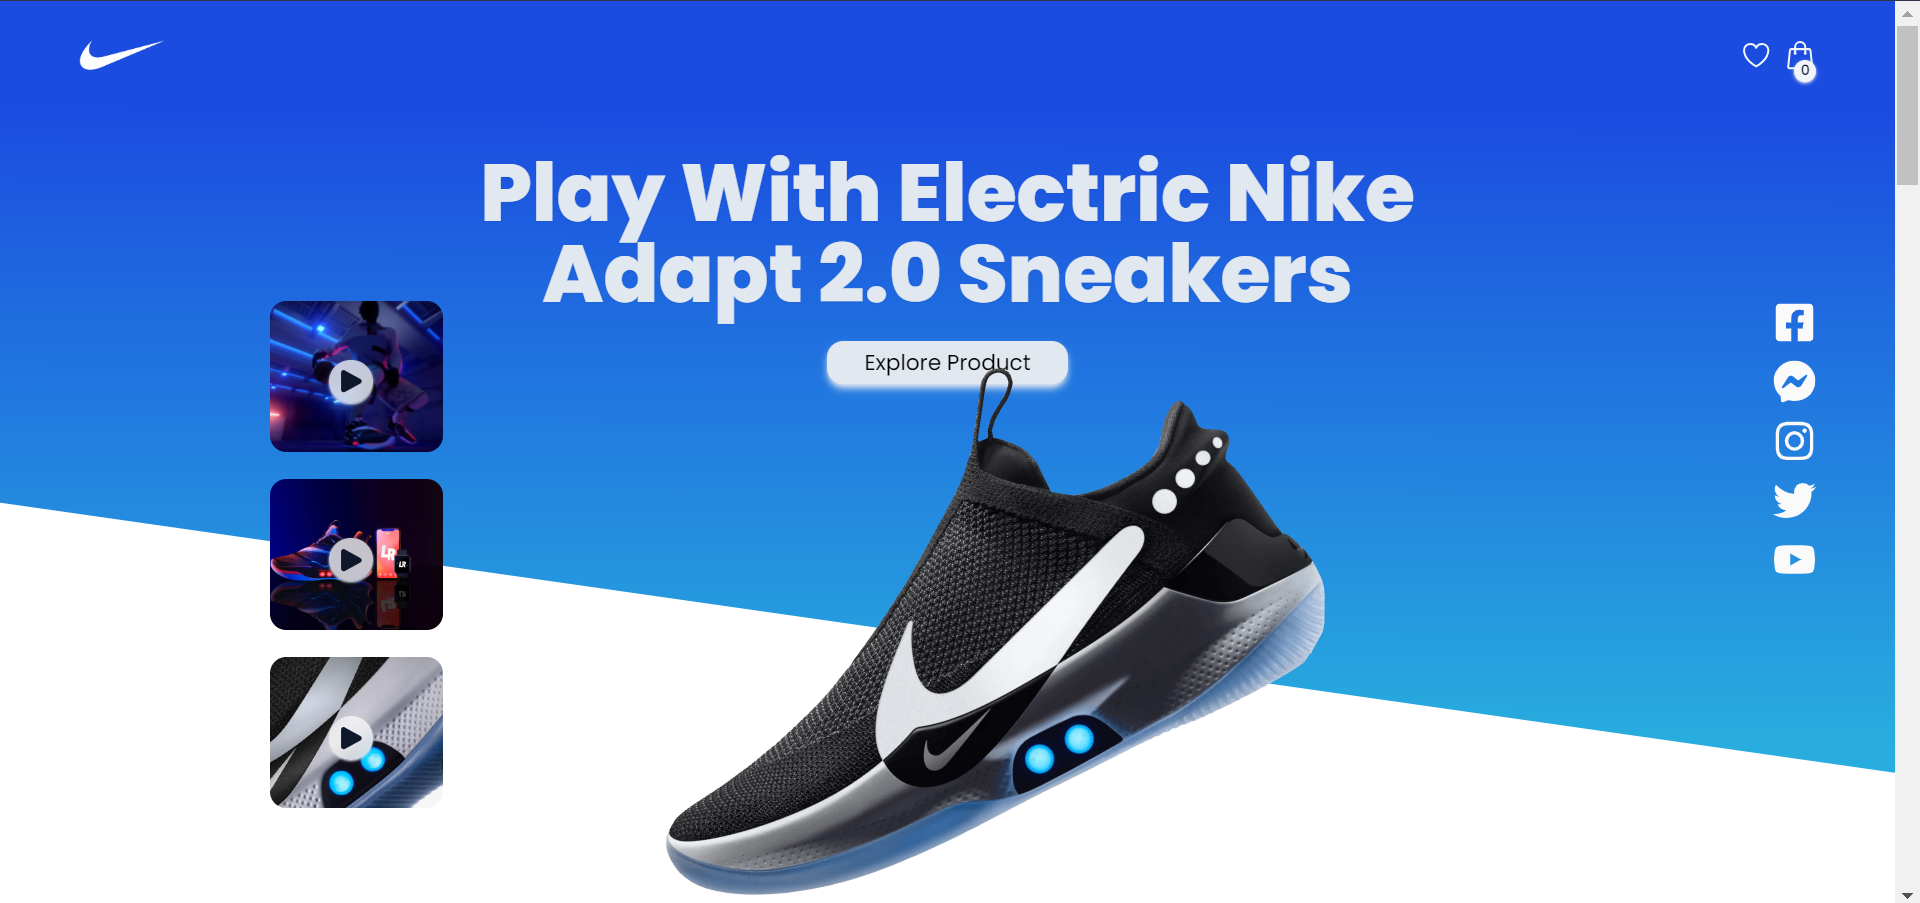
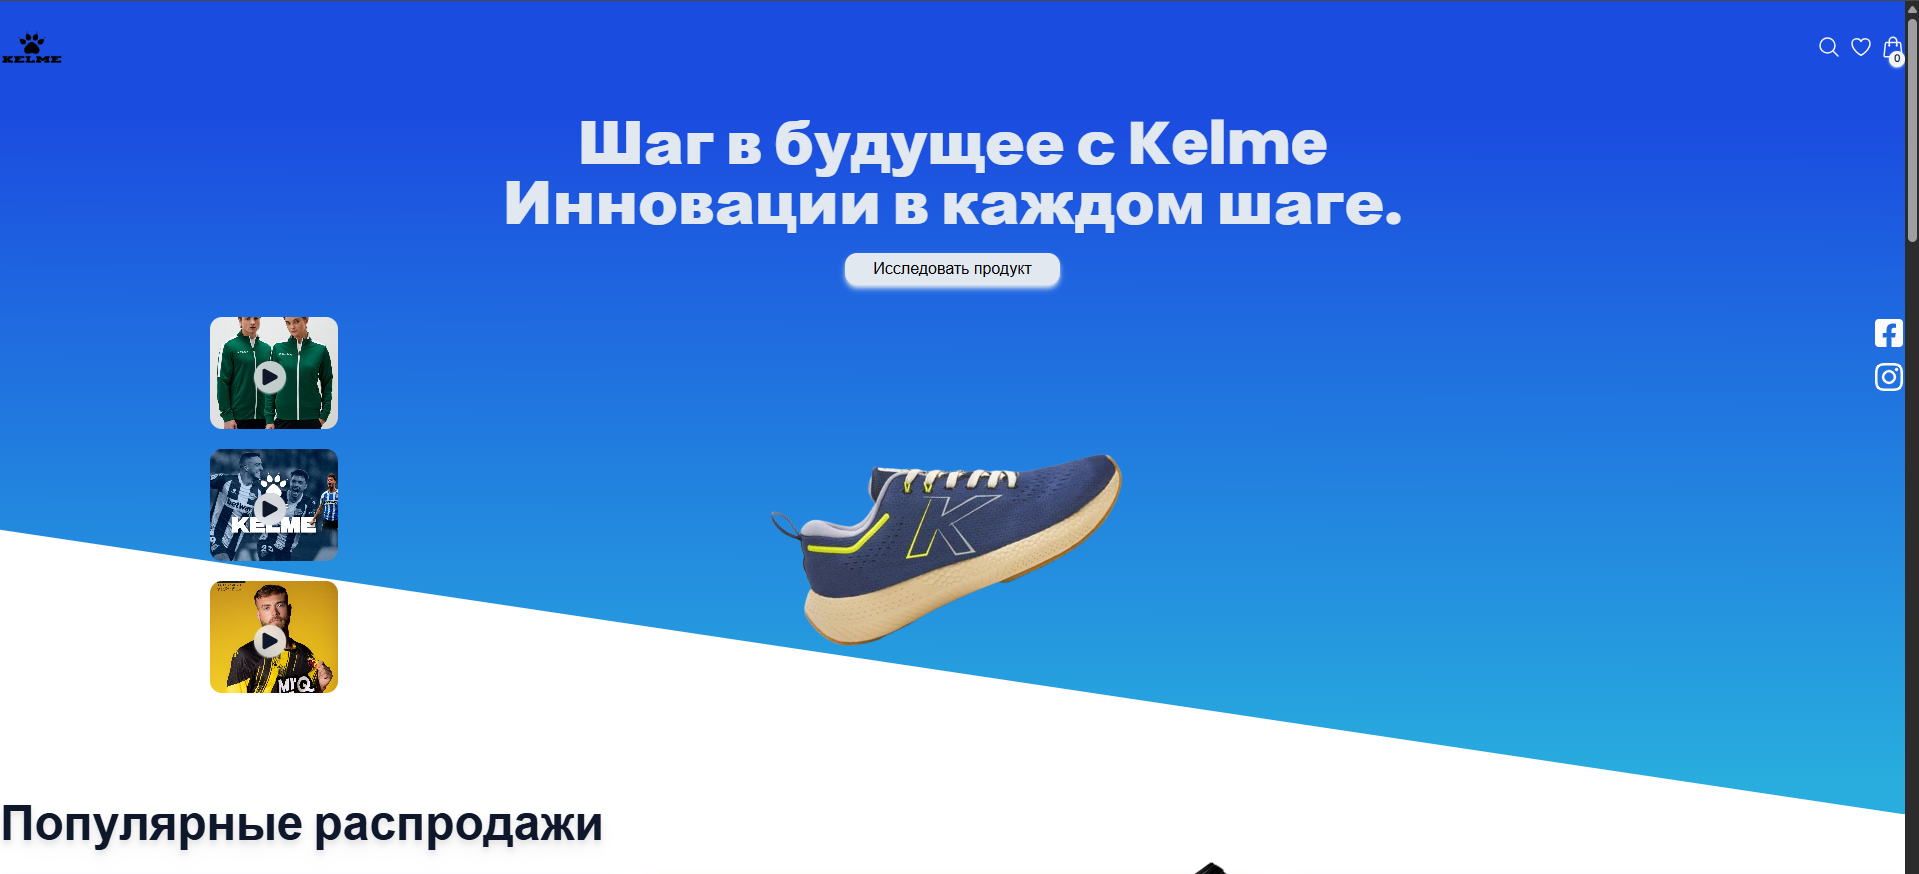
Kelme update commit

diff --git a/README.md b/README.md
@@ -1,63 +1,106 @@
-# Nike Store Ecommerce Web Application
+# Веб-приложение для электронной коммерции Kelme Store
 
-Welcome to the Nike Store Commerce Web Application, a cutting-edge e-commerce platform designed with modern technologies to provide you with a seamless shopping experience. This project is built using [Vite.js](https://vitejs.dev/) and styled with the powerful [TailwindCSS](https://tailwindcss.com/).
+Добро пожаловать в веб-приложение для электронной коммерции Kelme Store! Это современная платформа для онлайн-покупок, созданная с использованием передовых технологий для обеспечения удобного и приятного пользовательского опыта. Проект разработан на [Vite.js](https://vitejs.dev/) и стилизован с помощью [TailwindCSS](https://tailwindcss.com/).
 
-## Live Demo
+## Демонстрация
 
-Check out the live demo of the Nike Store: [Nike Store Demo](https://aditya-nike-store.netlify.app/)
+Вы можете ознакомиться с работающей версией приложения по следующей ссылке: [Kelme Store Demo](https://aditya-nike-store.netlify.app/)
 
-## Images
+## Скриншоты
 
-![Alt text](image.png)
-![Alt text](image-1.png)
-![Alt text](image-2.png)
-![Alt text](image-3.png)
+![Снимок экрана главной страницы](image.png)
+![Снимок экрана страницы товара](image1.png)
+![Снимок экрана корзины](image2.png)
+![Снимок экрана страницы "Нравится"](image3.png)
+![Снимок экрана поиска](image4.png)
 
-## Technologies Used
+## Технологии
 
-- [Vite.js](https://vitejs.dev/): A fast, opinionated web dev build tool that serves your code via native ES modules.
-- [TailwindCSS](https://tailwindcss.com/): A utility-first CSS framework for rapidly building custom designs.
-- [Redux Toolkit](https://redux-toolkit.js.org/): The official, opinionated, batteries-included toolset for efficient Redux development.
-- [React-Redux](https://react-redux.js.org/): The official React bindings for Redux to manage the application state.
-- [React-Hot-Toast](https://react-redux.js.org/): A declarative and customizable toast notification system for React.
+В этом проекте используются следующие технологии:
 
-## Features
+*   **[Vite.js](https://vitejs.dev/):** Быстрый и современный сборщик проектов, который использует нативные ES-модули.
+*   **[React](https://reactjs.org/):** Библиотека для создания пользовательских интерфейсов.
+*   **[TailwindCSS](https://tailwindcss.com/):** Утилитарный CSS-фреймворк для быстрой разработки пользовательских интерфейсов.
+*   **[Redux Toolkit](https://redux-toolkit.js.org/):** Официальный, рекомендуемый набор инструментов для эффективной разработки с использованием Redux.
+*   **[React-Redux](https://react-redux.js.org/):** Официальные привязки React для Redux для управления состоянием приложения.
+*   **[React Router](https://reactrouter.com/):** Стандартная библиотека для маршрутизации в React.
+*   **[React Hot Toast](https://react-hot-toast.com/):** Уведомления для React.
+*   **[Heroicons](https://heroicons.com/):** Набор красивых иконок в формате SVG.
 
-- **Responsive Design:** Our Nike Store is built with a responsive design, ensuring a seamless and enjoyable experience across various devices.
+## Функционал
 
-- **Shopping Cart:** Easily add your favorite shoes to the cart, review your selections, and proceed to checkout.
+*   **Адаптивный дизайн:** Приложение полностью адаптивно и отлично выглядит на любых устройствах.
+*   **Корзина:** Добавляйте товары в корзину, просматривайте их и оформляйте заказ.
+*   **Список желаний:** Создавайте список желаний, чтобы не потерять понравившиеся товары.
+*   **Поиск:** Удобный поиск по товарам с возможностью добавления в корзину и в избранное прямо из результатов поиска.
+*   **Страницы товаров:** Подробная информация о каждом товаре.
 
-- **Wishlist:** Create a wishlist of your desired shoes for future reference or purchase.
+## Начало работы
 
-- **Product Details:** Dive into the details of each shoe, including specifications, pricing, and customer reviews.
+Чтобы запустить проект локально, выполните следующие шаги:
 
-## Getting Started
+1.  **Клонируйте репозиторий:**
 
-To explore the Nike Store locally, follow these simple steps:
+    ```bash
+    git clone https://github.com/your-username/kelme-store.git
+    cd kelme-store
+    ```
 
-1. Clone the repository:
+2.  **Установите зависимости:**
 
-```bash
-git clone [repository_url]
-cd [project_directory]
+    ```bash
+    npm install
+    ```
+
+3.  **Запустите сервер для разработки:**
+
+    ```bash
+    npm run dev
+    ```
+
+    Теперь вы можете открыть [http://localhost:5173](http://localhost:5173) в вашем браузере.
+
+## Структура проекта
+
+```
+.
+├── public/
+├── src/
+│   ├── app/
+│   │   ├── CartSlice.js
+│   │   ├── LikeSlice.js
+│   │   ├── SearchSlice.js
+│   │   └── Store.js
+│   ├── assets/
+│   ├── components/
+│   │   ├── cart/
+│   │   ├── like/
+│   │   ├── utils/
+│   │   ├── Cart.jsx
+│   │   ├── FlexContent.jsx
+│   │   ├── Footer.jsx
+│   │   ├── Hero.jsx
+│   │   ├── Like.jsx
+│   │   ├── Navbar.jsx
+│   │   ├── Sales.jsx
+│   │   ├── Search.jsx
+│   │   └── Stories.jsx
+│   ├── context/
+│   ├── data/
+│   ├── App.jsx
+│   ├── index.css
+│   └── main.jsx
+├── .gitignore
+├── index.html
+├── package.json
+├── README.md
+└── ...
 ```
 
-2. Install dependencies:
+## Вклад в проект
 
-```bash
-npm install
-# or
-yarn install
-```
+Мы приветствуем любой вклад в развитие проекта! Если вы хотите помочь, пожалуйста, сделайте форк репозитория и создайте pull request.
 
-3. Start the development server:
+---
 
-```bash
-npm run dev
-# or
-yarn dev
-```
-
-Now you can visit [http://localhost:3000](http://localhost:3000) in your browser to experience the Nike Store locally.
-
-Feel free to explore, shop, and enjoy the modern and elegant design of our Nike Store Ecommerce Web Application! If you have any feedback or issues, please let us know. Happy shopping! 🛍✨
+Спасибо за интерес к нашему проекту! Мы надеемся, что вам понравится работать с ним. 🛍✨
